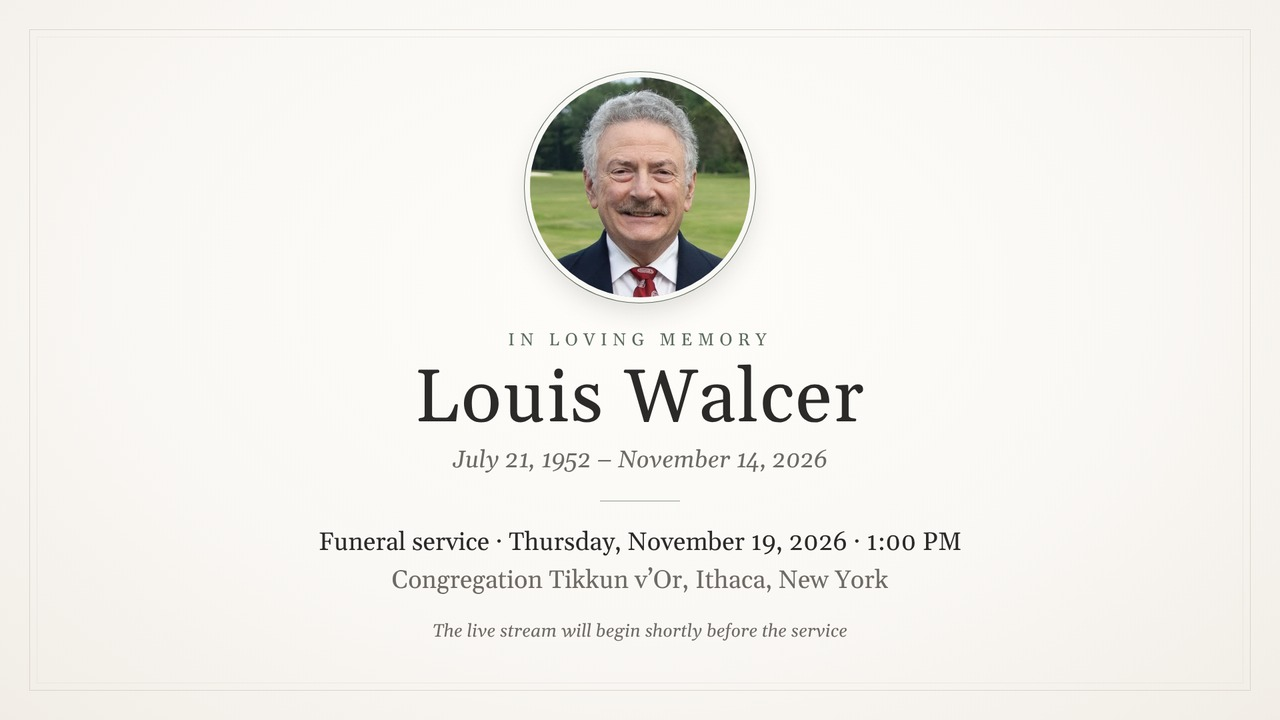
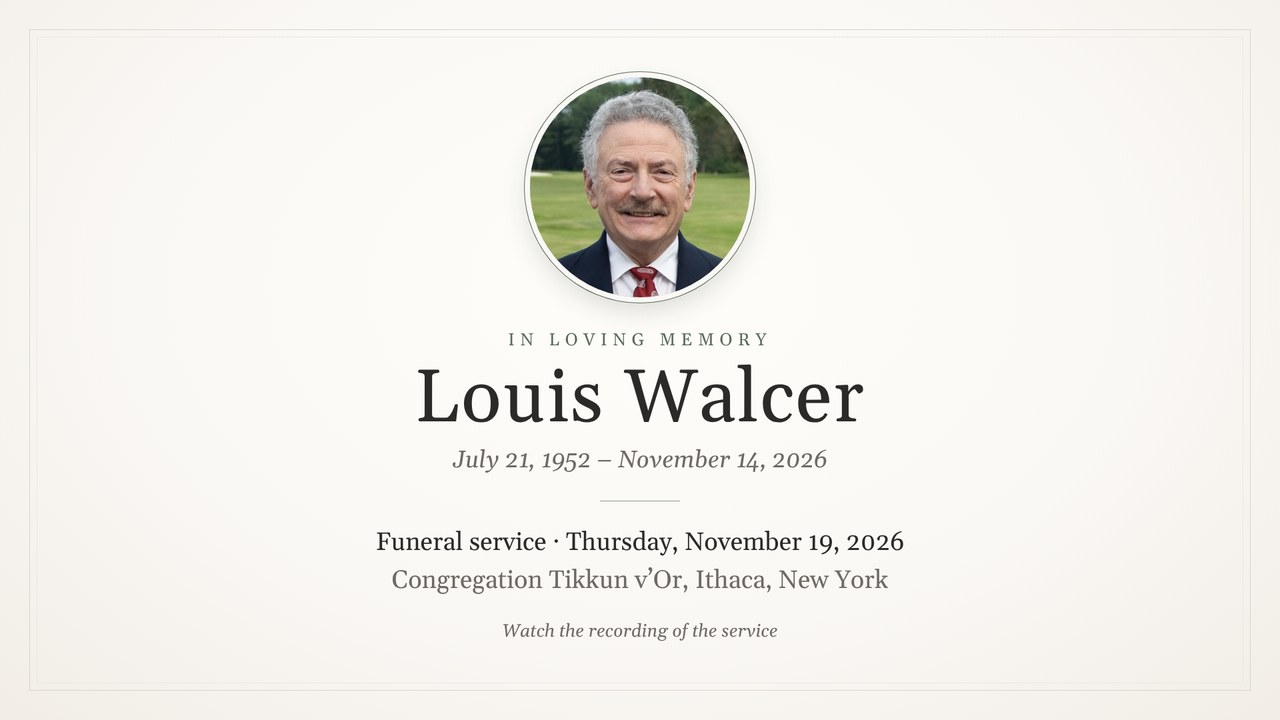
Interim: service and burial in past tense, reception tonight up top (#48)
Claude-Session: https://claude.ai/code/session_01DZXvQXdtF3Gp3t24HPJfsB

Changed region(s): [[0.25, 0.7333, 0.75, 0.7639], [0.3438, 0.8556, 0.6562, 0.8861]]

diff --git a/lou/index.html b/lou/index.html
@@ -3,13 +3,13 @@
 <head>
 <meta charset="utf-8">
 <meta name="viewport" content="width=device-width, initial-scale=1">
-<title>Lou Walcer (1952&ndash;2026): Funeral, Reception and Obituary</title>
-<meta name="description" content="Funeral, burial, reception and livestream details for Lou Walcer of Ithaca, NY (July 21, 1952 &ndash; November 14, 2026), with his obituary and the service bulletin.">
+<title>Lou Walcer (1952&ndash;2026): Reception, Funeral Recording and Obituary</title>
+<meta name="description" content="In memory of Lou Walcer of Ithaca, NY (July 21, 1952 &ndash; November 14, 2026): details of tonight&rsquo;s reception, the recording of his funeral service, his obituary and the service bulletin.">
 <link rel="canonical" href="https://walcer.family/lou/">
 <meta property="og:type" content="website">
 <meta property="og:site_name" content="The Walcer Family">
 <meta property="og:title" content="Lou Walcer (1952&ndash;2026)">
-<meta property="og:description" content="Funeral, reception and livestream details, obituary and service bulletin for Lou Walcer of Ithaca, NY.">
+<meta property="og:description" content="Obituary, funeral service recording and service bulletin for Lou Walcer of Ithaca, NY.">
 <meta property="og:url" content="https://walcer.family/lou/">
 <meta property="og:image" content="https://walcer.family/lou/lou.jpg">
 <meta property="og:image:width" content="512">
@@ -118,6 +118,7 @@
     dl { grid-template-columns: 1fr; gap: 0; }
     dd { margin-bottom: .6rem; }
   }
+  #funeral dl + p { margin-top: .9rem; }
   .watch { text-align: center; }
   .watch a.card { position: relative; display: block; border-radius: 8px; overflow: hidden; box-shadow: 0 2px 12px rgba(0,0,0,.18); }
   .watch a.card img { display: block; width: 100%; height: auto; transition: transform .25s; }
@@ -139,23 +140,30 @@
     <p class="dates">July 21, 1952 &ndash; November 14, 2026</p>
   </header>
 
-
-  <section id="arrangements">
-    <h2><a class="anchor" href="#arrangements" aria-label="Link to this section">#</a>Arrangements</h2>
-    <p>Arrangements are being handled by <a href="https://www.bangsfuneralhome.com/">Bangs Funeral Home</a>.</p>
+  <section id="reception">
+    <span id="shiva"></span>
+    <h2><a class="anchor" href="#reception" aria-label="Link to this section">#</a>Reception</h2>
+    <dl>
+      <dt>When</dt><dd>Tonight, Thursday, November 19, 2026, 6:00 to 9:00 PM</dd>
+      <dt>Where</dt><dd>Carrier Ballroom, <a href="https://statlerhotel.cornell.edu/">The Statler Hotel at Cornell</a><br><a href="https://www.google.com/maps/search/?api=1&amp;query=130+Statler+Dr%2C+Ithaca%2C+NY+14853">130 Statler Dr, Ithaca, NY 14853</a></dd>
+      <dt>Parking</dt><dd>Hotel valet and self-parking are available. The Hoy Road Garage is about a 7-minute walk, and there are limited metered spots on campus (pay with the ParkMobile app).</dd>
+    </dl>
   </section>
 
+
+
   <section id="watch" class="watch">
-    <h2><a class="anchor" href="#watch" aria-label="Link to this section">#</a>Watch the service live</h2>
+    <h2><a class="anchor" href="#watch" aria-label="Link to this section">#</a>Watch the service</h2>
     <a class="card" href="https://youtu.be/n1EsyudCUsQ" target="_blank" rel="noopener">
-      <img src="livestream.jpg" width="1280" height="720" alt="Watch the funeral service for Louis Walcer on YouTube, Thursday, November 19, 2026, at 1:00 PM">
+      <img src="livestream.jpg" width="1280" height="720" alt="Watch the recording of the funeral service for Louis Walcer on YouTube">
       <span class="play" aria-hidden="true"></span>
     </a>
-    <p class="caption"><a href="https://youtu.be/n1EsyudCUsQ" target="_blank" rel="noopener"><strong>Watch on YouTube</strong></a><span class="alt">or <a href="watch/">watch with the bulletin alongside</a> to follow the order of service</span><span class="tbc">The stream opens shortly before the service begins at 1:00 PM.</span></p>
+    <p class="caption"><a href="https://youtu.be/n1EsyudCUsQ" target="_blank" rel="noopener"><strong>Watch the recording on YouTube</strong></a><span class="alt">or <a href="watch/">watch with the bulletin alongside</a> to follow the order of service</span></p>
   </section>
 
 
   <section id="funeral">
+    <span id="arrangements"></span>
     <h2><a class="anchor" href="#funeral" aria-label="Link to this section">#</a>Funeral &amp; burial</h2>
     <div class="bulletin-link" id="bulletin-link">
       <button class="cover" type="button" data-bulletin aria-label="Open the service bulletin"><img src="bulletin/cover-thumb.jpg" width="480" height="797" alt=""></button>
@@ -165,21 +173,11 @@
       </div>
     </div>
     <dl>
-      <dt>When</dt><dd>Thursday, November 19, 2026, at 1:00 PM</dd>
+      <dt>When</dt><dd>Thursday, November 19, 2026</dd>
       <dt>Where</dt><dd><a href="https://www.tikkunvor.org/">Congregation Tikkun v&rsquo;Or</a><br><a href="https://www.google.com/maps/search/?api=1&amp;query=2550+North+Triphammer+Rd%2C+Ithaca%2C+NY+14852">2550 North Triphammer Rd, Ithaca, NY 14852</a></dd>
-      <dt id="livestream">Livestream</dt><dd>For those who can't attend in person, the service at Tikkun v&rsquo;Or will be streamed online. <a href="https://youtu.be/n1EsyudCUsQ">Watch the livestream on YouTube</a>. The stream opens shortly before the service begins at 1:00 PM.</dd>
+      <dt id="livestream">Recording</dt><dd>The service was livestreamed. <a href="https://youtu.be/n1EsyudCUsQ">Watch the recording on YouTube</a>.</dd>
     </dl>
-    <p>To be followed by burial at <a href="https://www.google.com/maps/search/?api=1&amp;query=Lake+View+Cemetery%2C+Ithaca%2C+NY">Lake View Cemetery</a>.</p>
-  </section>
-
-  <section id="reception">
-    <span id="shiva"></span>
-    <h2><a class="anchor" href="#reception" aria-label="Link to this section">#</a>Reception</h2>
-    <dl>
-      <dt>When</dt><dd>Thursday, November 19, 2026, 6:00 to 9:00 PM</dd>
-      <dt>Where</dt><dd>Carrier Ballroom, <a href="https://statlerhotel.cornell.edu/">The Statler Hotel at Cornell</a><br><a href="https://www.google.com/maps/search/?api=1&amp;query=130+Statler+Dr%2C+Ithaca%2C+NY+14853">130 Statler Dr, Ithaca, NY 14853</a></dd>
-      <dt>Parking</dt><dd>Hotel valet and self-parking are available. The Hoy Road Garage is about a 7-minute walk, and there are limited metered spots on campus (pay with the ParkMobile app).</dd>
-    </dl>
+    <p>Lou was laid to rest at <a href="https://www.google.com/maps/search/?api=1&amp;query=Lake+View+Cemetery%2C+Ithaca%2C+NY">Lake View Cemetery</a>. Arrangements were handled by <a href="https://www.bangsfuneralhome.com/">Bangs Funeral Home</a>.</p>
   </section>
 
   <section id="donations">
@@ -206,7 +204,7 @@
     <p>Lou was on the Board of Directors of MedTech NY, volunteered for the Cornell Class of 1974, and sang with the Savage Club, an Ithaca men&rsquo;s performing group.</p>
     <p>Lou was widely known for his sense of humor, enjoyed science fiction, was a devoted Tolkien fan, and he firmly preferred Picard to Kirk.</p>
     <p>He is survived by the love of his life, his wife, Roberta; his son, Marshall, daughter-in-law Wesley, and grandson Ira; his daughter Adrienne and her partner, Andrew; his sister, Carol Finder; his sister-in-law, Margaret Bandel; and numerous nieces and nephews.</p>
-    <p>Bangs Funeral Home is handling arrangements, and the service will be held at Temple Tikkun V&rsquo;Or at 1pm on Thursday, November 19, 2026. Lou will be laid to rest in Lake View Cemetery. An evening reception will be announced. All puns are welcome.</p>
+    <p>Bangs Funeral Home handled arrangements, and the service was held at Temple Tikkun V&rsquo;Or at 1pm on Thursday, November 19, 2026. Lou was laid to rest in Lake View Cemetery. All puns are welcome.</p>
     <p>In Lou of flowers, the family asks that donations be made in his name to <a href="https://contribute.npr.org/">National Public Radio</a> or the <a href="https://giving.cornell.edu/campaigns/library">Cornell University Library</a>.</p>
   </section>
 

diff --git a/lou/watch/index.html b/lou/watch/index.html
@@ -3,12 +3,12 @@
 <head>
 <meta charset="utf-8">
 <meta name="viewport" content="width=device-width, initial-scale=1, viewport-fit=cover">
-<meta name="description" content="Watch the livestream of Lou Walcer's funeral service alongside the service bulletin and live chat.">
+<meta name="description" content="Watch the recording of Lou Walcer's funeral service alongside the service bulletin.">
 <link rel="canonical" href="https://walcer.family/lou/watch/">
 <meta property="og:title" content="Watch: Lou Walcer funeral service">
 <meta property="og:image" content="https://walcer.family/lou/livestream.jpg">
 <meta property="og:url" content="https://walcer.family/lou/watch/">
-<title>Watch: Lou Walcer funeral service</title>
+<title>Watch: Lou Walcer funeral service recording</title>
 <style>
   * { box-sizing: border-box; }
   html, body { height: 100%; margin: 0; background: #121110; color: #ece8e2;
@@ -128,11 +128,6 @@
     </div>
     <div class="divider" role="separator" tabindex="0" aria-label="Resize stream and bulletin" title="Drag to resize"></div>
     <div class="paper">
-      <div class="tabs" role="tablist" aria-label="Bulletin or chat">
-        <button class="tab" role="tab" id="tab-bulletin" aria-controls="pane-bulletin" aria-selected="true" type="button">Bulletin</button>
-        <button class="tab desk-only" role="tab" id="tab-chat" aria-controls="pane-chat" aria-selected="false" type="button">Live chat</button>
-        <a class="tab phone-only" href="https://www.youtube.com/watch?v=n1EsyudCUsQ" target="_blank" rel="noopener">Chat on YouTube &#8599;</a>
-      </div>
       <div class="pane" id="pane-bulletin" role="tabpanel" aria-labelledby="tab-bulletin">
       <div class="bv" id="bulletin" aria-label="Service bulletin">
         <div class="bv-stage">
@@ -147,7 +142,6 @@
         <div class="bv-bar"><span class="bv-count" aria-live="polite"></span><a href="../bulletin/lou-walcer-bulletin.pdf">Download PDF</a></div>
       </div>
       </div>
-      <div class="pane chat-pane" id="pane-chat" role="tabpanel" aria-labelledby="tab-chat" hidden></div>
     </div>
   </div>
 </div>
@@ -242,7 +236,6 @@
     go(e.clientX > r.left + r.width / 2 ? 1 : -1);
   });
   document.addEventListener('keydown', function (e) {
-    if (document.getElementById('pane-bulletin').hidden) return;
     if (e.target.closest && e.target.closest('iframe')) return;
     if (e.key === 'ArrowRight' || e.key === 'PageDown') { e.preventDefault(); go(1); }
     else if (e.key === 'ArrowLeft' || e.key === 'PageUp') { e.preventDefault(); go(-1); }
@@ -348,9 +341,11 @@
     }
     if (!chat) layout();
   }
-  tabB.addEventListener('click', function () { showTab('bulletin'); });
-  tabC.addEventListener('click', function () { showTab('chat'); });
-  window.addEventListener('resize', function () { if (app.classList.contains('phone') && !paneC.hidden) showTab('bulletin'); });
+  if (tabB && tabC) {
+    tabB.addEventListener('click', function () { showTab('bulletin'); });
+    tabC.addEventListener('click', function () { showTab('chat'); });
+    window.addEventListener('resize', function () { if (app.classList.contains('phone') && !paneC.hidden) showTab('bulletin'); });
+  }
   for (var i = 1; i <= N; i++) new Image().src = src(i);
   pageLayout();
 })();
